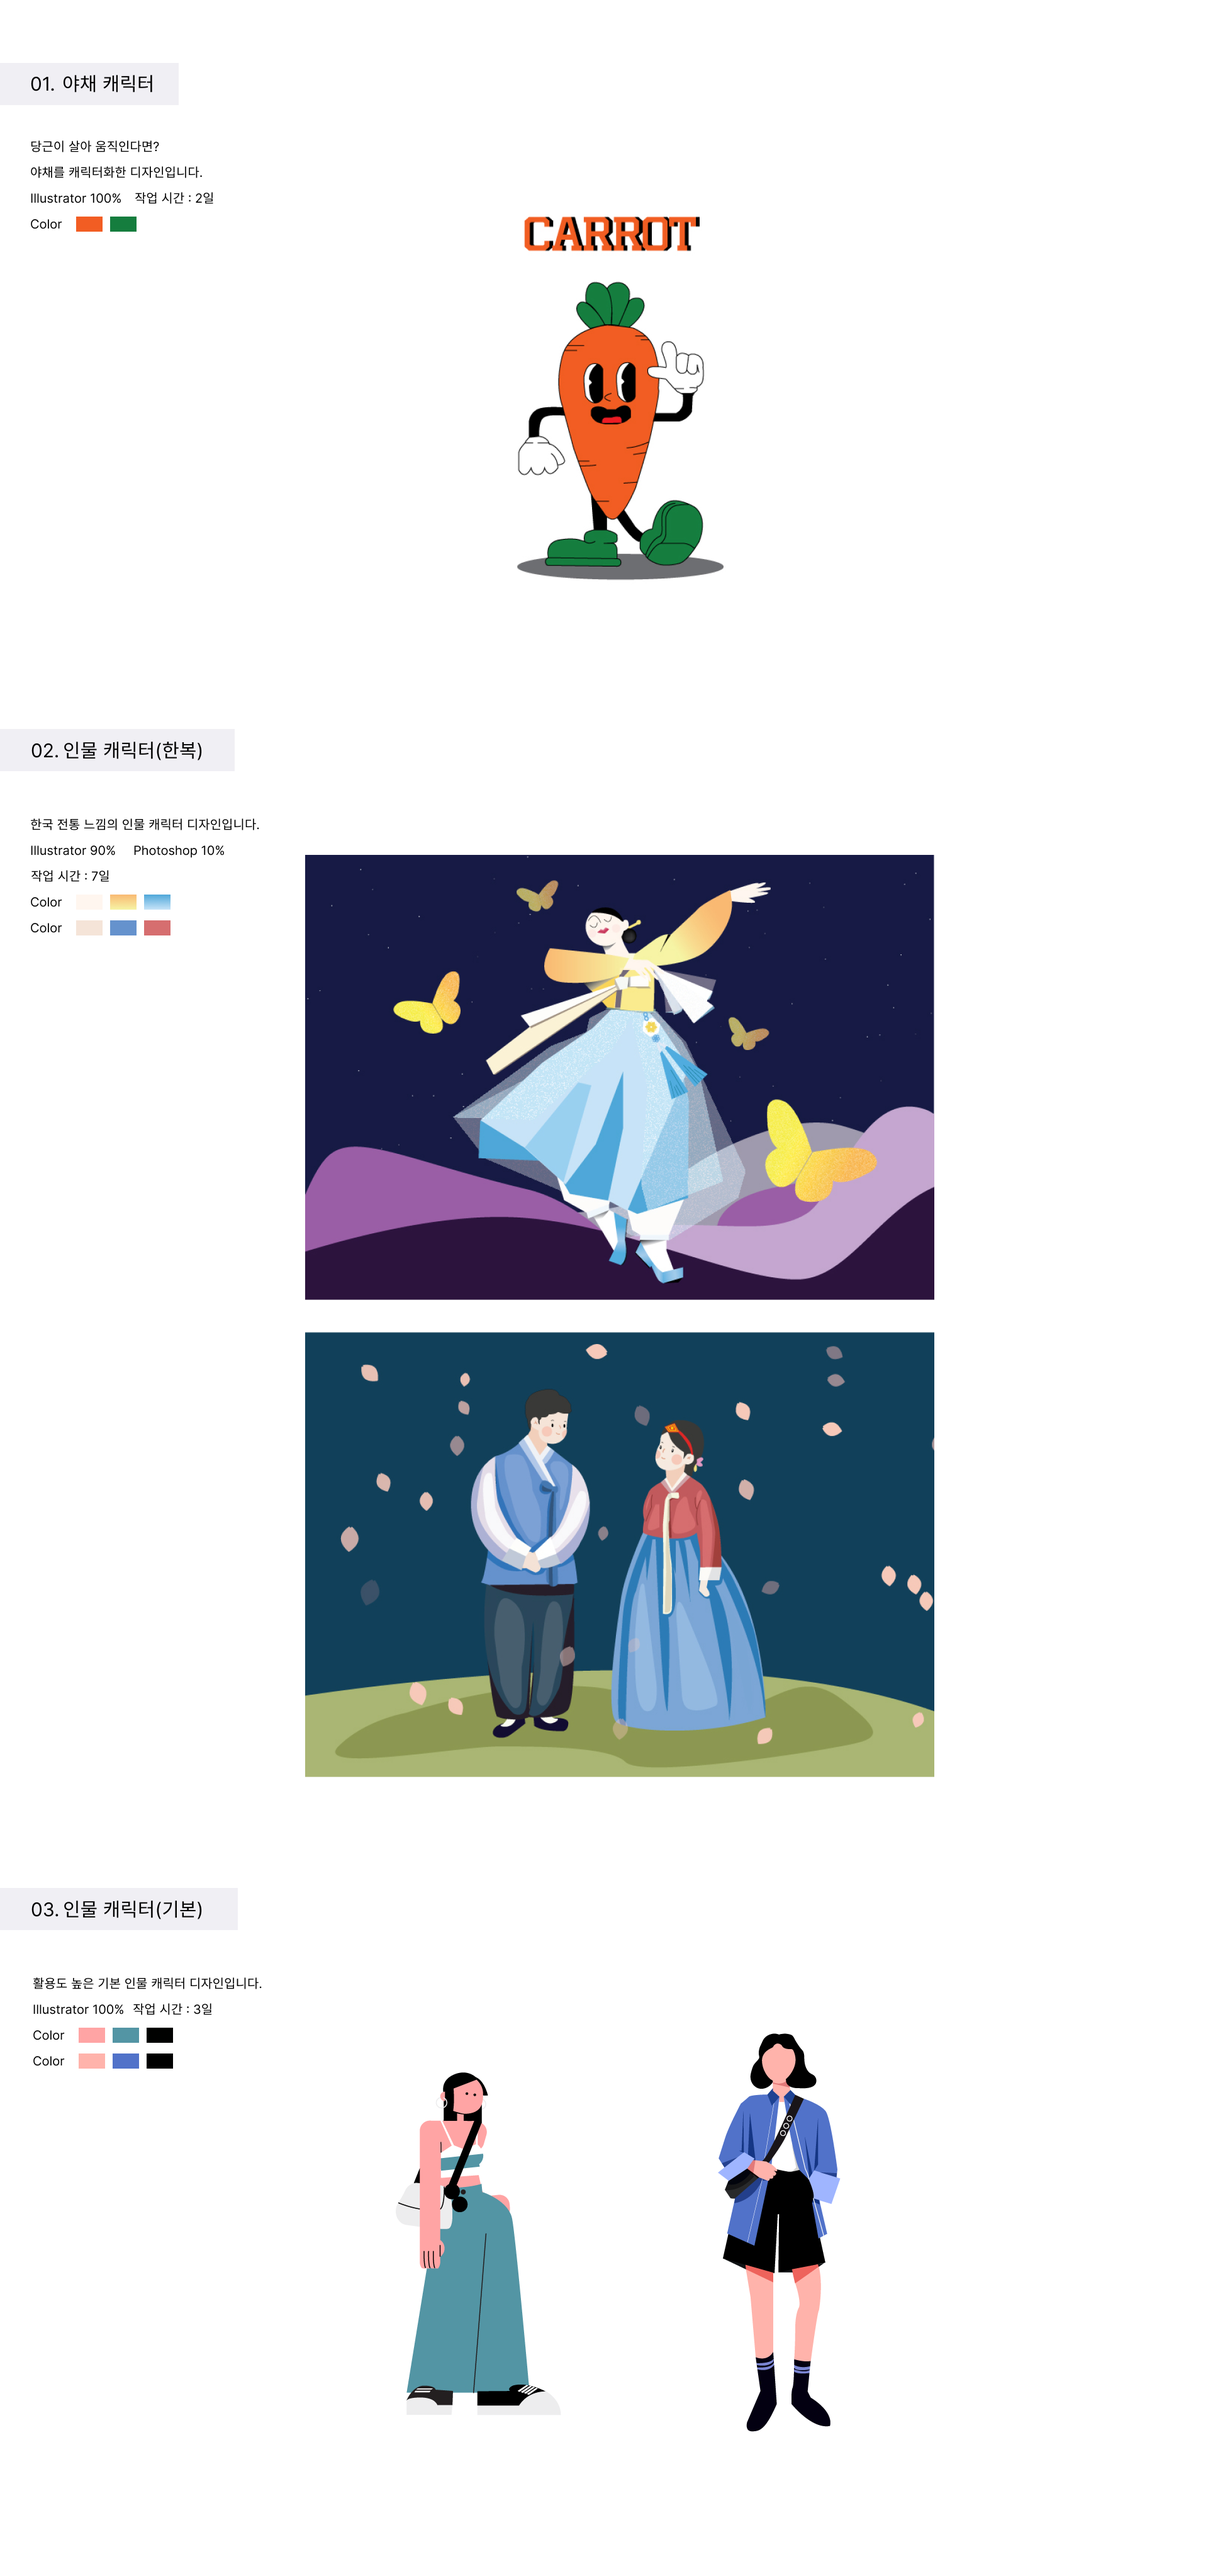
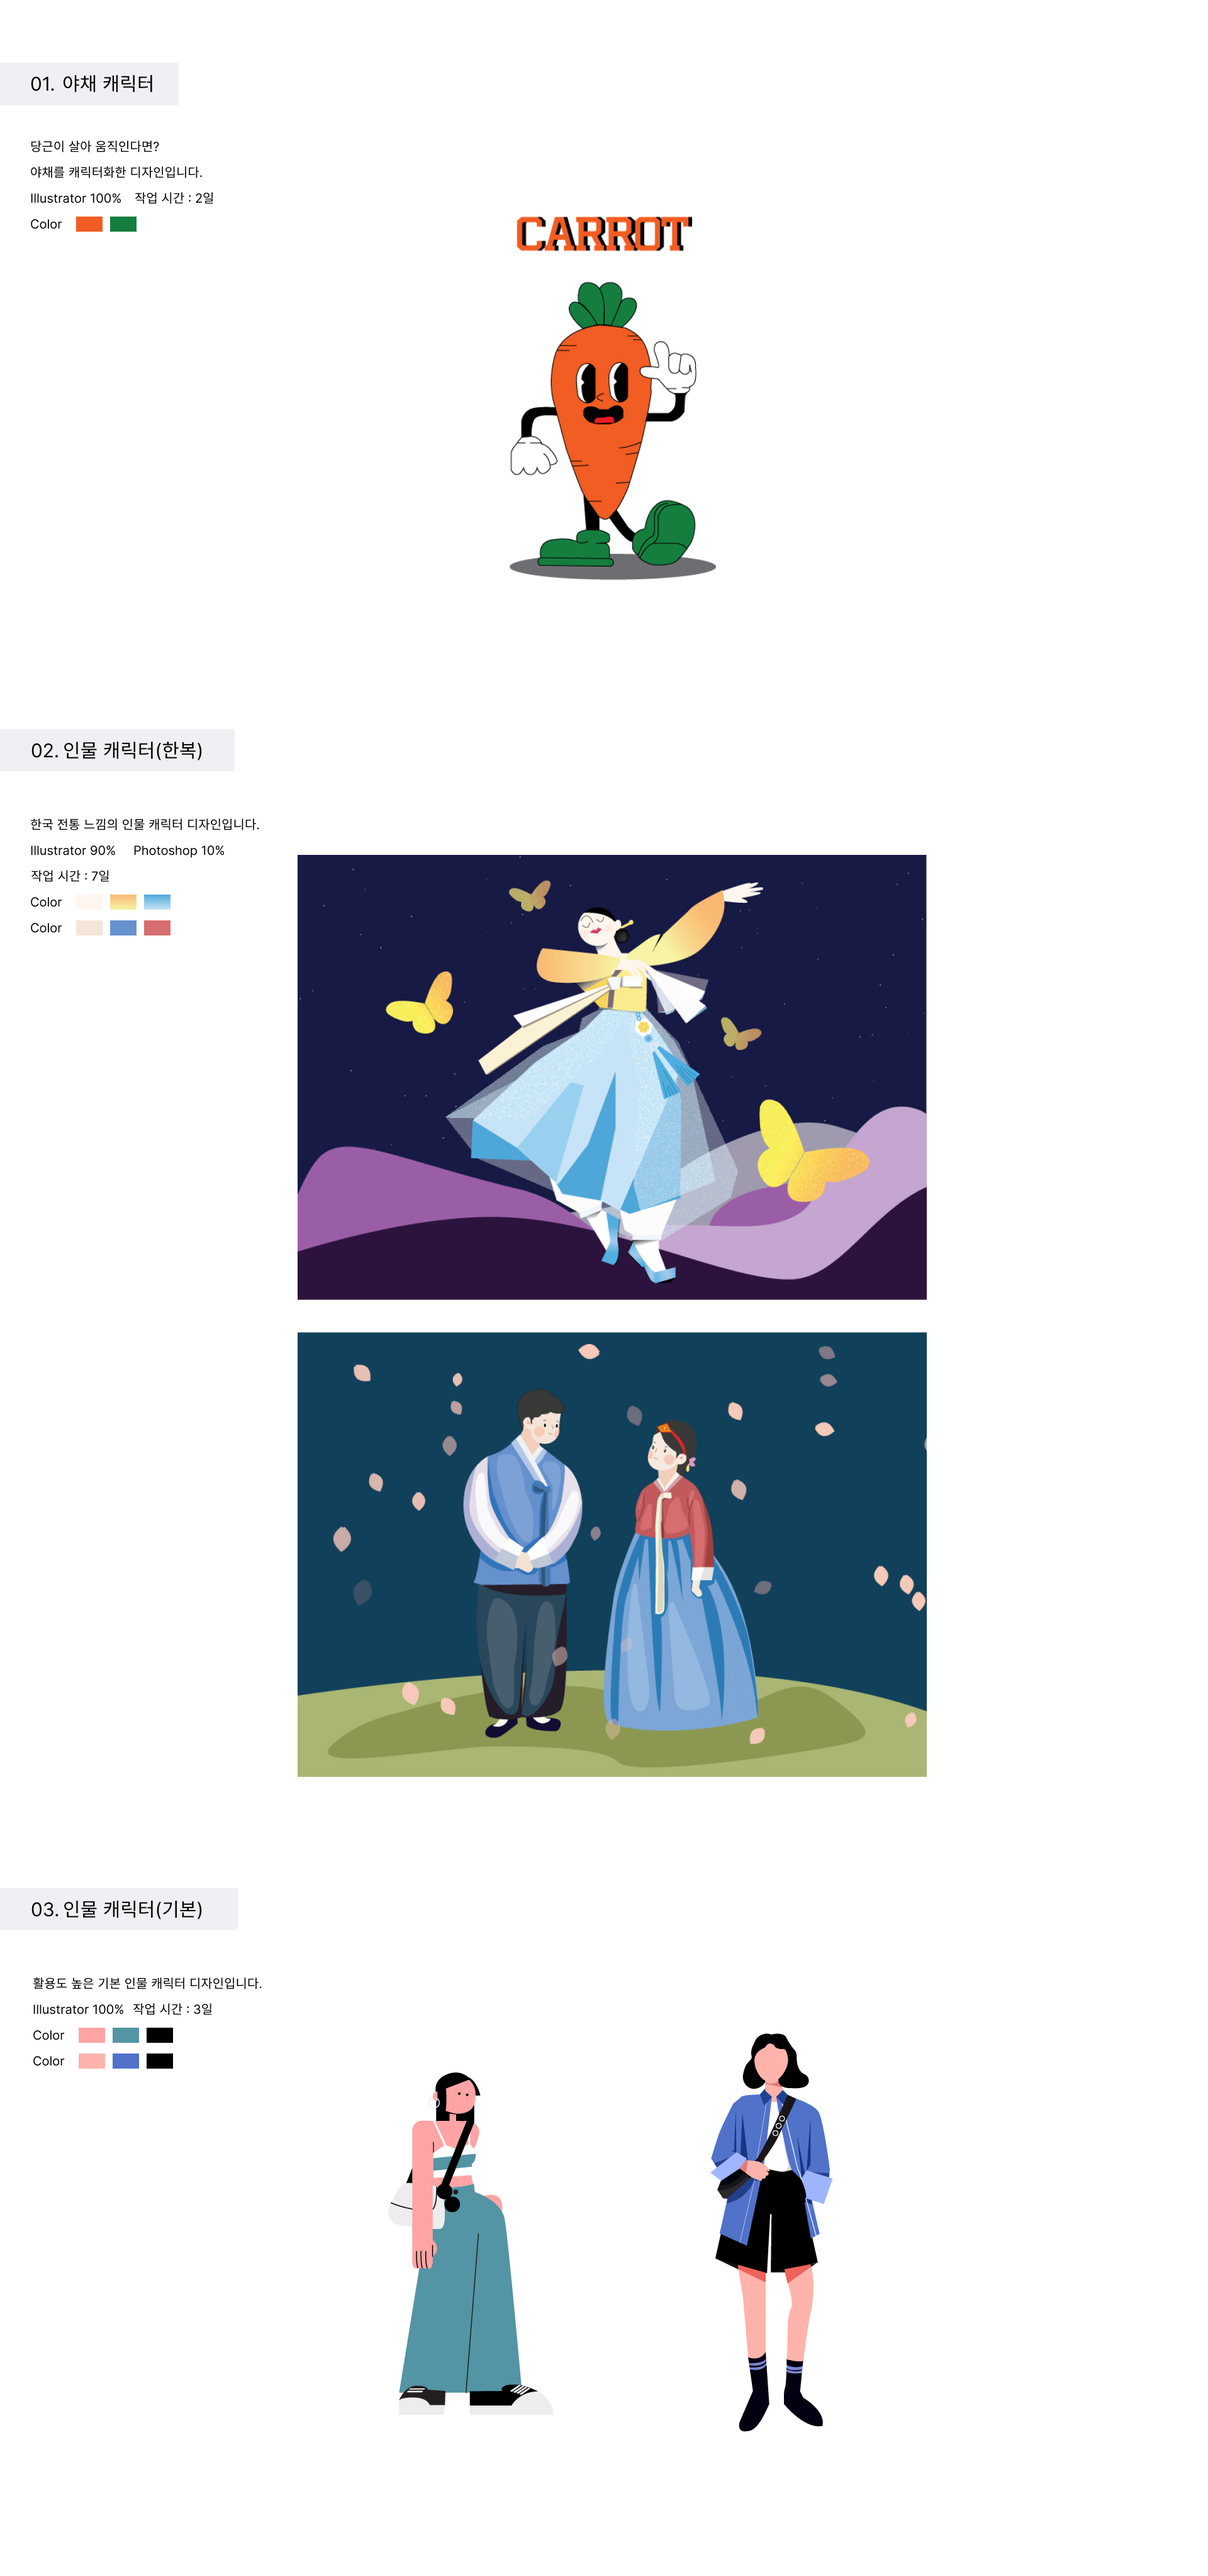
2024-03-15
사이즈 오류 수정

diff --git a/etc_figma.html b/etc_figma.html
@@ -5,11 +5,20 @@
     <meta name="viewport" content="width=device-width, initial-scale=1.0">
     <title> Figma </title>
     <style type="text/css" rel="stylesheet">
+
+body{
+    background-color: #ffffff;
+}
         .etc_img{
             width: 100%;
             height: auto;
-            overflow-x: hidden;
             margin: 0 auto;
+
+        }
+
+        img{
+            object-fit: contain;
+            width: 100%;
         }
         .frame{
             position: absolute;
@@ -17,6 +26,7 @@
             left: 150px;
             width: 802px;
             height: auto;
+            
         }
     </style>
 </head>

diff --git a/etc_illustrator.html b/etc_illustrator.html
@@ -5,12 +5,23 @@
     <meta name="viewport" content="width=device-width, initial-scale=1.0">
     <title> Illustrator </title>
     <style type="text/css" rel="stylesheet">
+
+body{
+    background-color: #ffffff;
+}
         .etc_img{
             width: 100%;
             height: auto;
-            overflow-x: hidden;
             margin: 0 auto;
+
         }
+
+        img{
+            object-fit: contain;
+            width: 100%;
+        }
+
+
     </style>
 </head>
 <body>

diff --git a/etc_photoshop.html b/etc_photoshop.html
@@ -5,11 +5,19 @@
     <meta name="viewport" content="width=device-width, initial-scale=1.0">
     <title> Photoshop</title>
     <style type="text/css" rel="stylesheet">
+body{
+    background-color: #ffffff;
+}
         .etc_img{
             width: 100%;
             height: auto;
-            overflow-x: hidden;
             margin: 0 auto;
+
+        }
+
+        img{
+            object-fit: contain;
+            width: 100%;
         }
     </style>
 </head>

diff --git a/pf_magazineB.html b/pf_magazineB.html
@@ -6,11 +6,19 @@
     <title> Magazine_B </title>
     <style type="text/css" rel="stylesheet">
 
+body{
+    background-color: #030303;
+}
         .pf_img{
             width: 100%;
             height: auto;
             margin: 0 auto;
-            overflow-x: hidden;
+
+        }
+
+        img{
+            object-fit: contain;
+            width: 100%;
         }
     </style>
 </head>
